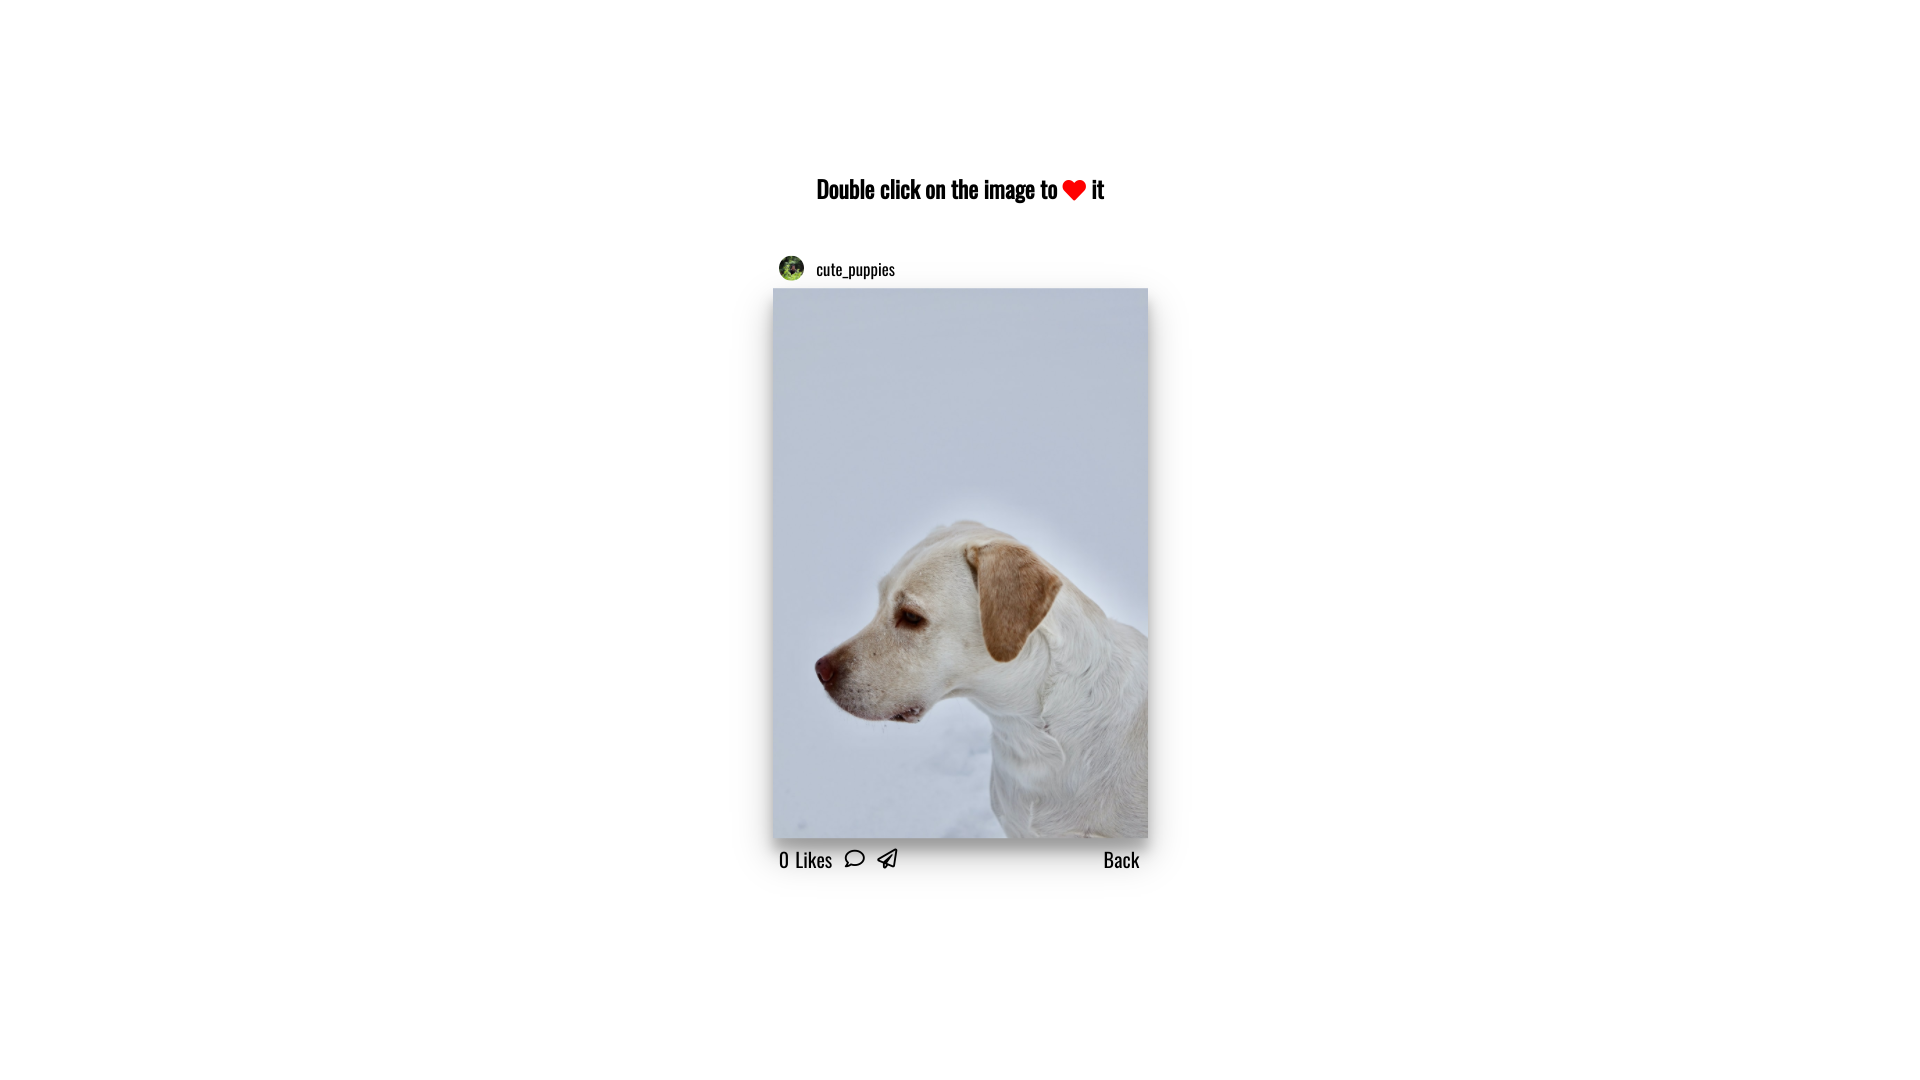
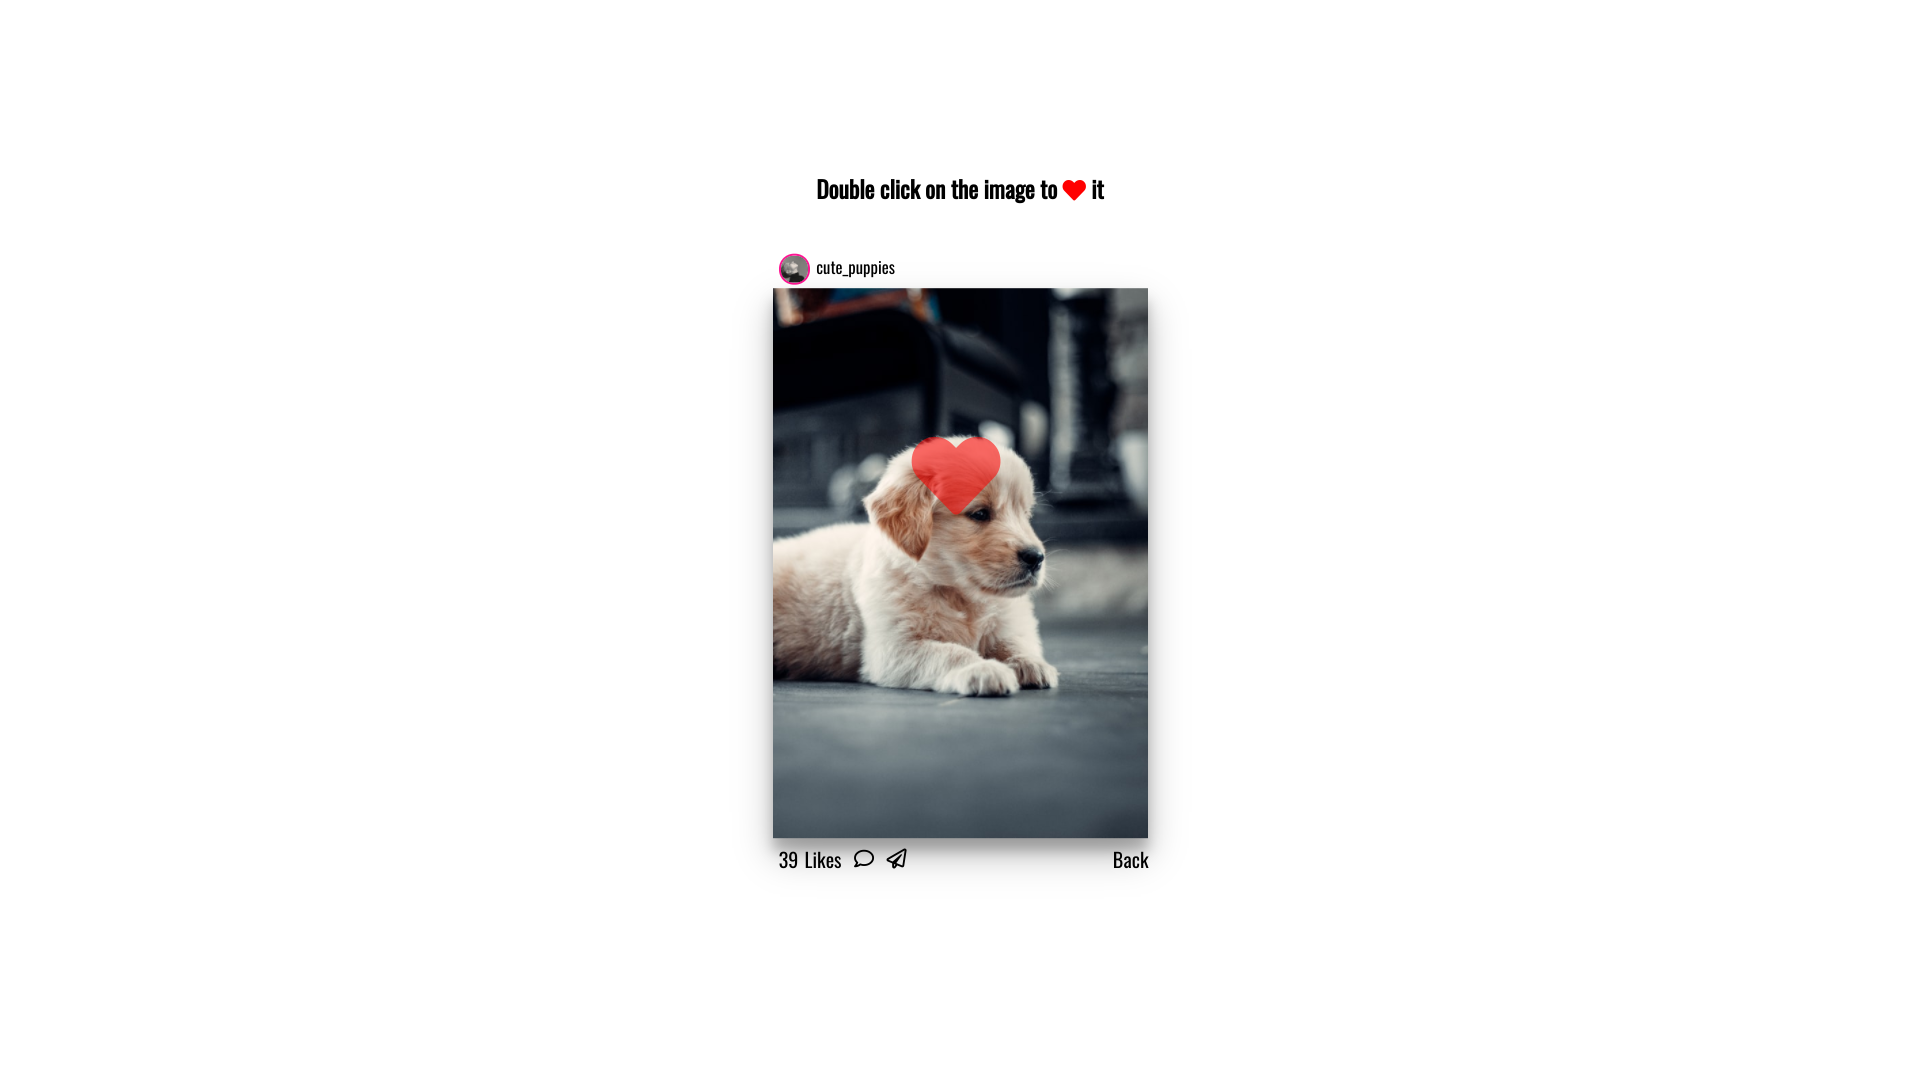
29 - Like it (Fix, again)

Changed region(s): [[0.375, 0.2139, 0.625, 0.825]]

diff --git a/static/js/like_it.js b/static/js/like_it.js
@@ -1,10 +1,11 @@
 const loveMe = document.querySelector('.loveMe')
 const times = document.querySelector('#times')
+const container = document.querySelector('.container')
 
 let clickTime = 0
 let timesClicked = 0
 
-loveMe.addEventListener('click', (e) => {
+container.addEventListener('click', (e) => {
     if(clickTime === 0) {
         clickTime = new Date().getTime()
     } else {
@@ -28,16 +29,15 @@ const createHeart = (e) => {
     const leftOffset = e.target.offsetLeft
     const topOffset = e.target.offsetTop
 
-    const xInside = x - leftOffset
-    const yInside = y - topOffset
+    const xInside = (x - leftOffset)*(0.17165)
+    const yInside = (y - topOffset)*(0.75)
 
-    const xReal = xInside - 617
-    const yReal = yInside - 115
 
-    heart.style.top = `${yReal}px`
-    heart.style.left = `${xReal}px`
+    heart.style.left = `${xInside}px`
+    heart.style.top = `${yInside}px`
+    heart.style.position = `absolute`
 
-    loveMe.appendChild(heart)
+    container.appendChild(heart)
 
     times.innerHTML = ++timesClicked
 

diff --git a/static/css/like_it.css b/static/css/like_it.css
@@ -96,7 +96,7 @@ i {
   box-shadow: 0 14px 28px rgba(0, 0, 0, 0.25), 0 10px 10px rgba(0, 0, 0, 0.22);
 }
 
-.loveMe .fa-heart {
+.container .fa-heart {
   position: absolute;
   animation: grow 0.6s linear;
   transform: translate(-50%, -50%) scale(0);
